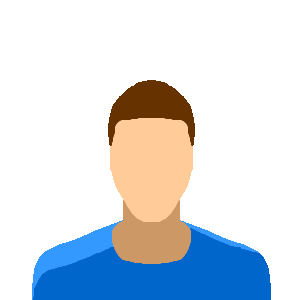
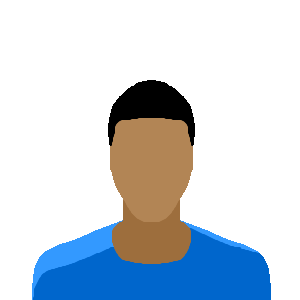
staff tweaks

Changed region(s): [[0.36, 0.27, 0.66, 0.9]]

diff --git a/index.html b/index.html
@@ -168,18 +168,18 @@
 					<div class="staff-container">
 						<div class="staff-row">
 							<div class="member-info">
-								<img src="img/employee3.png" alt="">
-								<h3>Sofia Eide</h3>
+								<img src="img/employee1.png" alt="">
+								<h2>Sofia Eide</h2>
 								Chief Executive Officer
 							</div>
 							<div class="member-info">
-								<img src="img/employee1.png" alt="">
-								<h3>Jakob Hansen</h3>
+								<img src="img/employee2.png" alt="">
+								<h2>Jakob Hansen</h2>
 								Innovation Manager
 							</div>
 							<div class="member-info">
-								<img src="img/employee2.png" alt="">
-								<h3>Lukas Weber</h3>
+								<img src="img/employee3.png" alt="">
+								<h2>Lukas Weber</h2>
 								Marketing Manager
 							</div>
 						</div>
@@ -187,17 +187,17 @@
 						<div class="staff-row">
 							<div class="member-info">
 								<img src="img/employee4.png" alt="">
-								<h3>Norah Flo</h3>
+								<h2>Norah Flo</h2>
 								Booking Organizer
 							</div>
 							<div class="member-info">
 								<img src="img/employee5.png" alt="">
-								<h3>Ingrid Olsen</h3>
+								<h2>Ingrid Olsen</h2>
 								Event Organizer
 							</div>
 							<div class="member-info">
 								<img src="img/employee6.png" alt="">
-								<h3>Marcus Bauer</h3>
+								<h2>Marcus Bauer</h2>
 								Communications
 							</div>
 						</div>

diff --git a/css/style.css b/css/style.css
@@ -271,6 +271,7 @@ input[type="submit"]:hover{
 
 	.member-info img {
 		width: 40vw;
+		max-width: 300px;
 	}
 }
 
